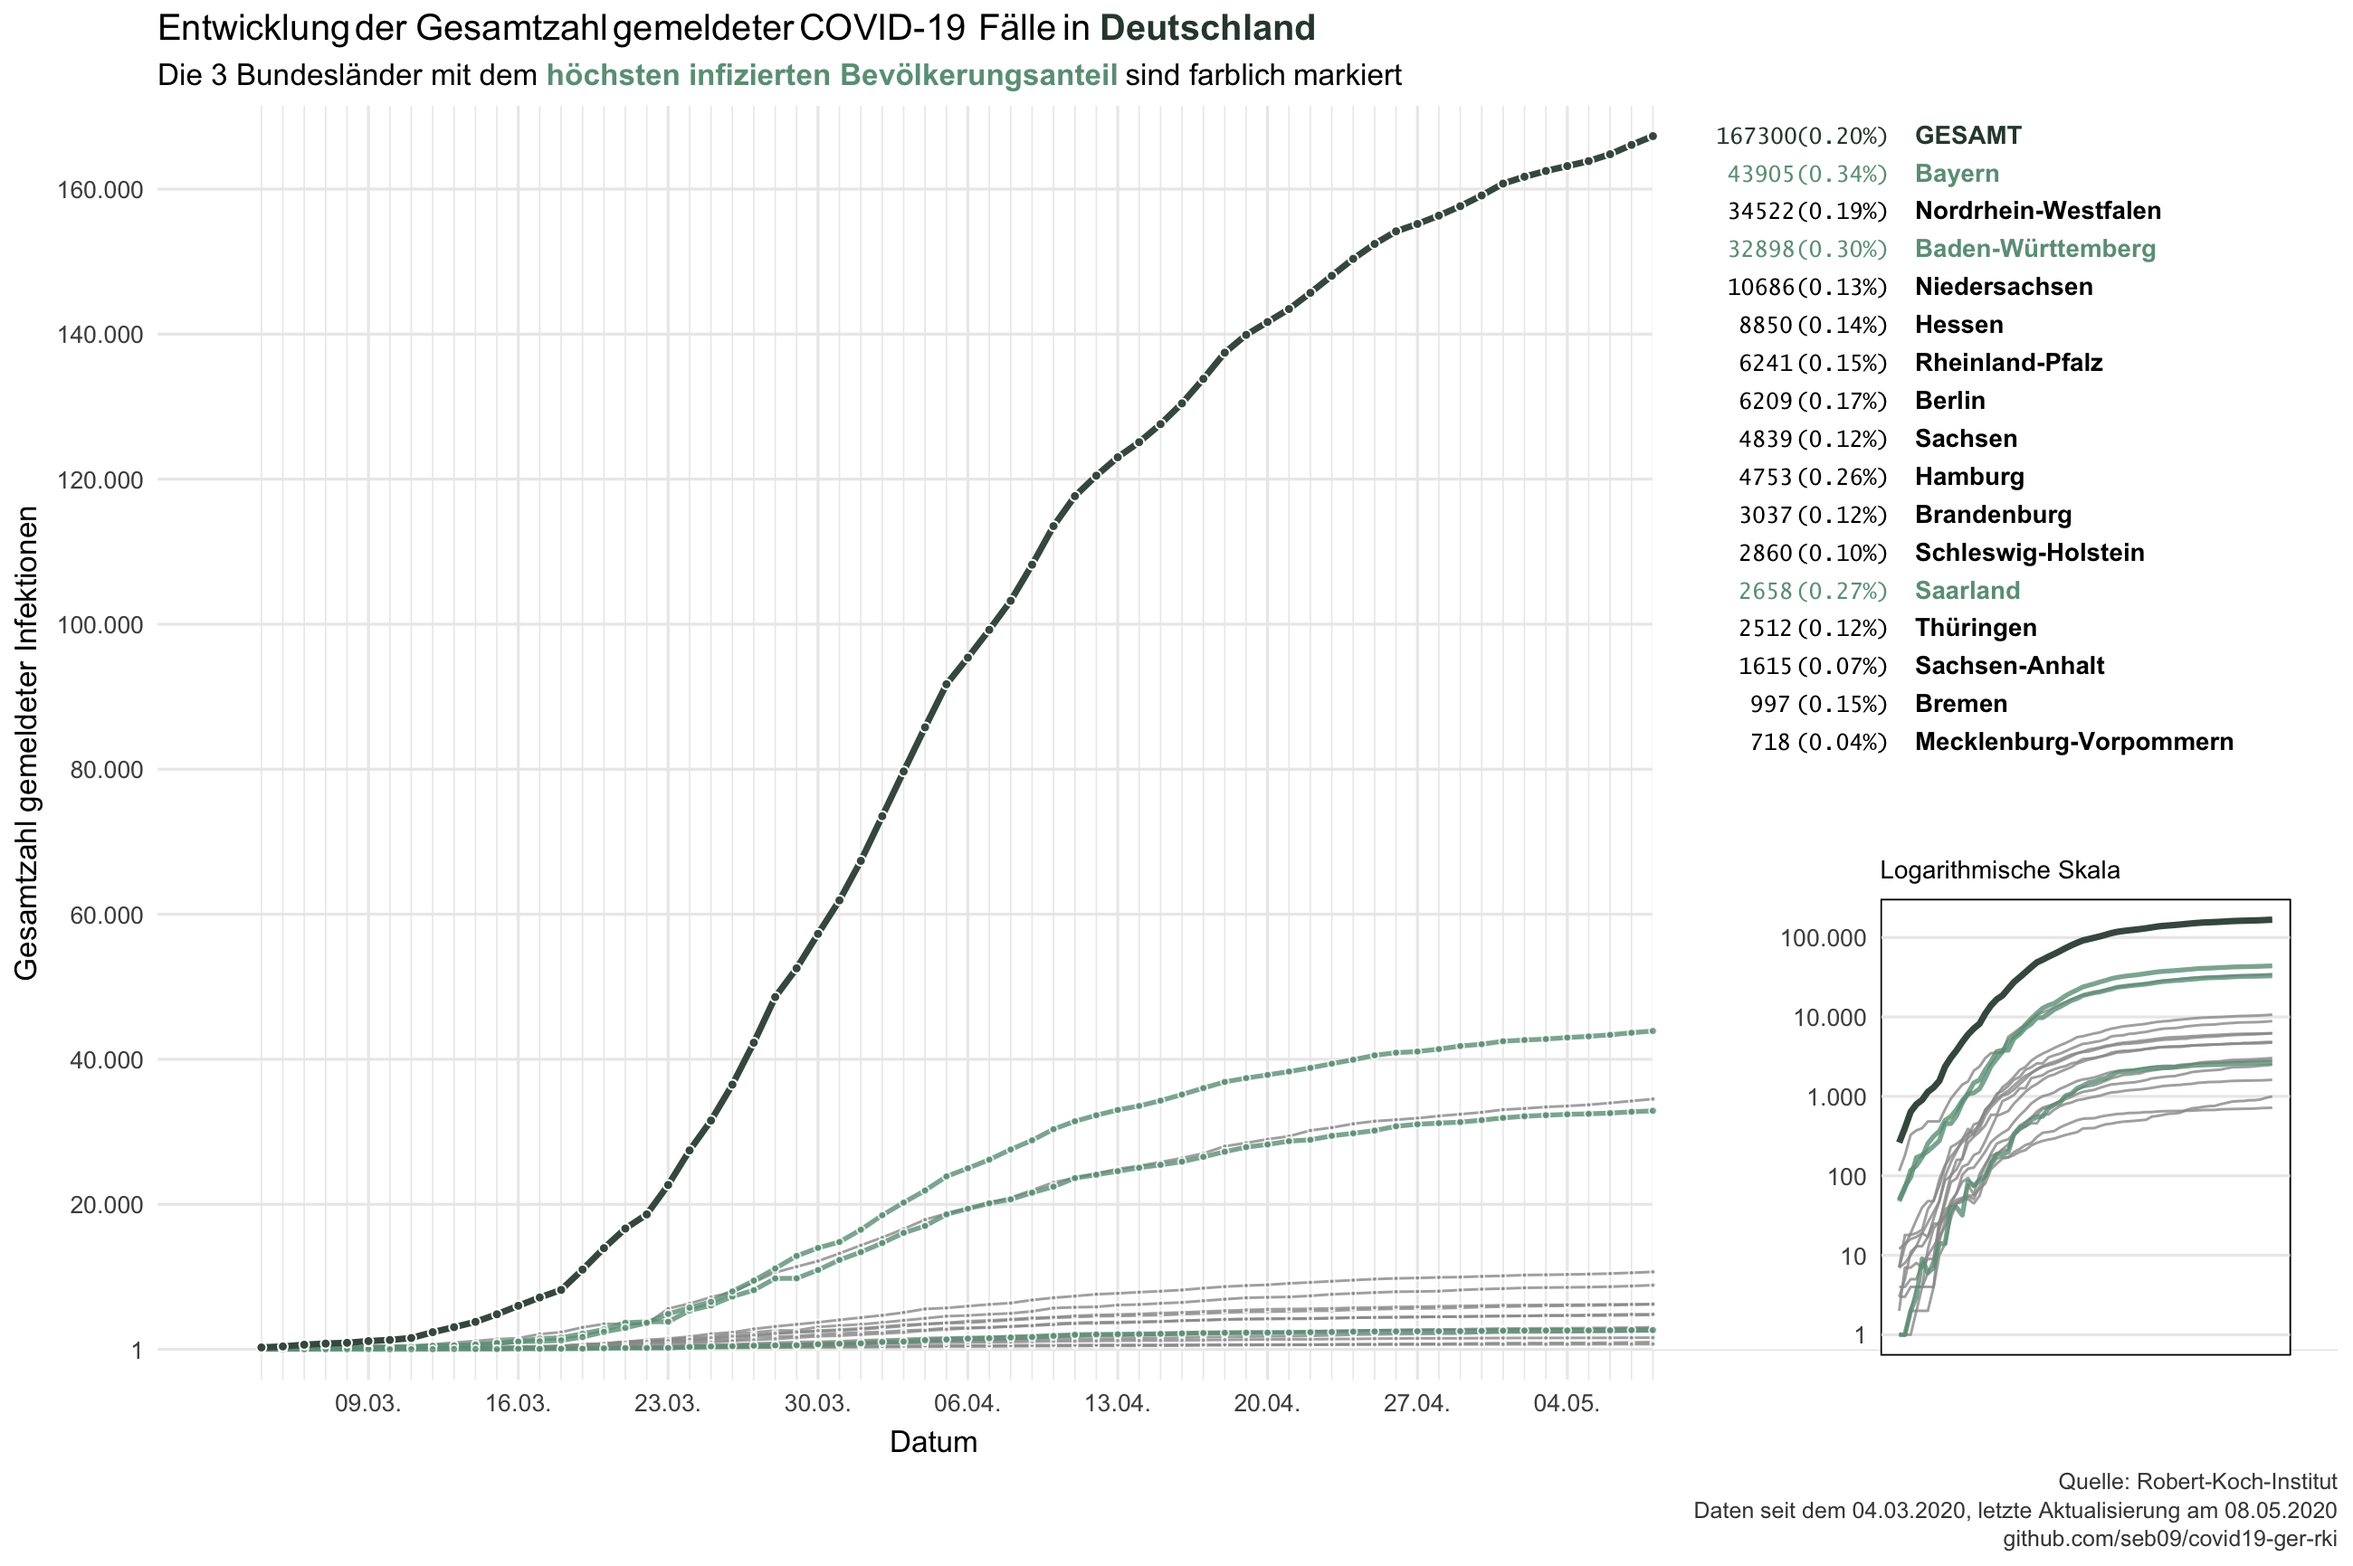
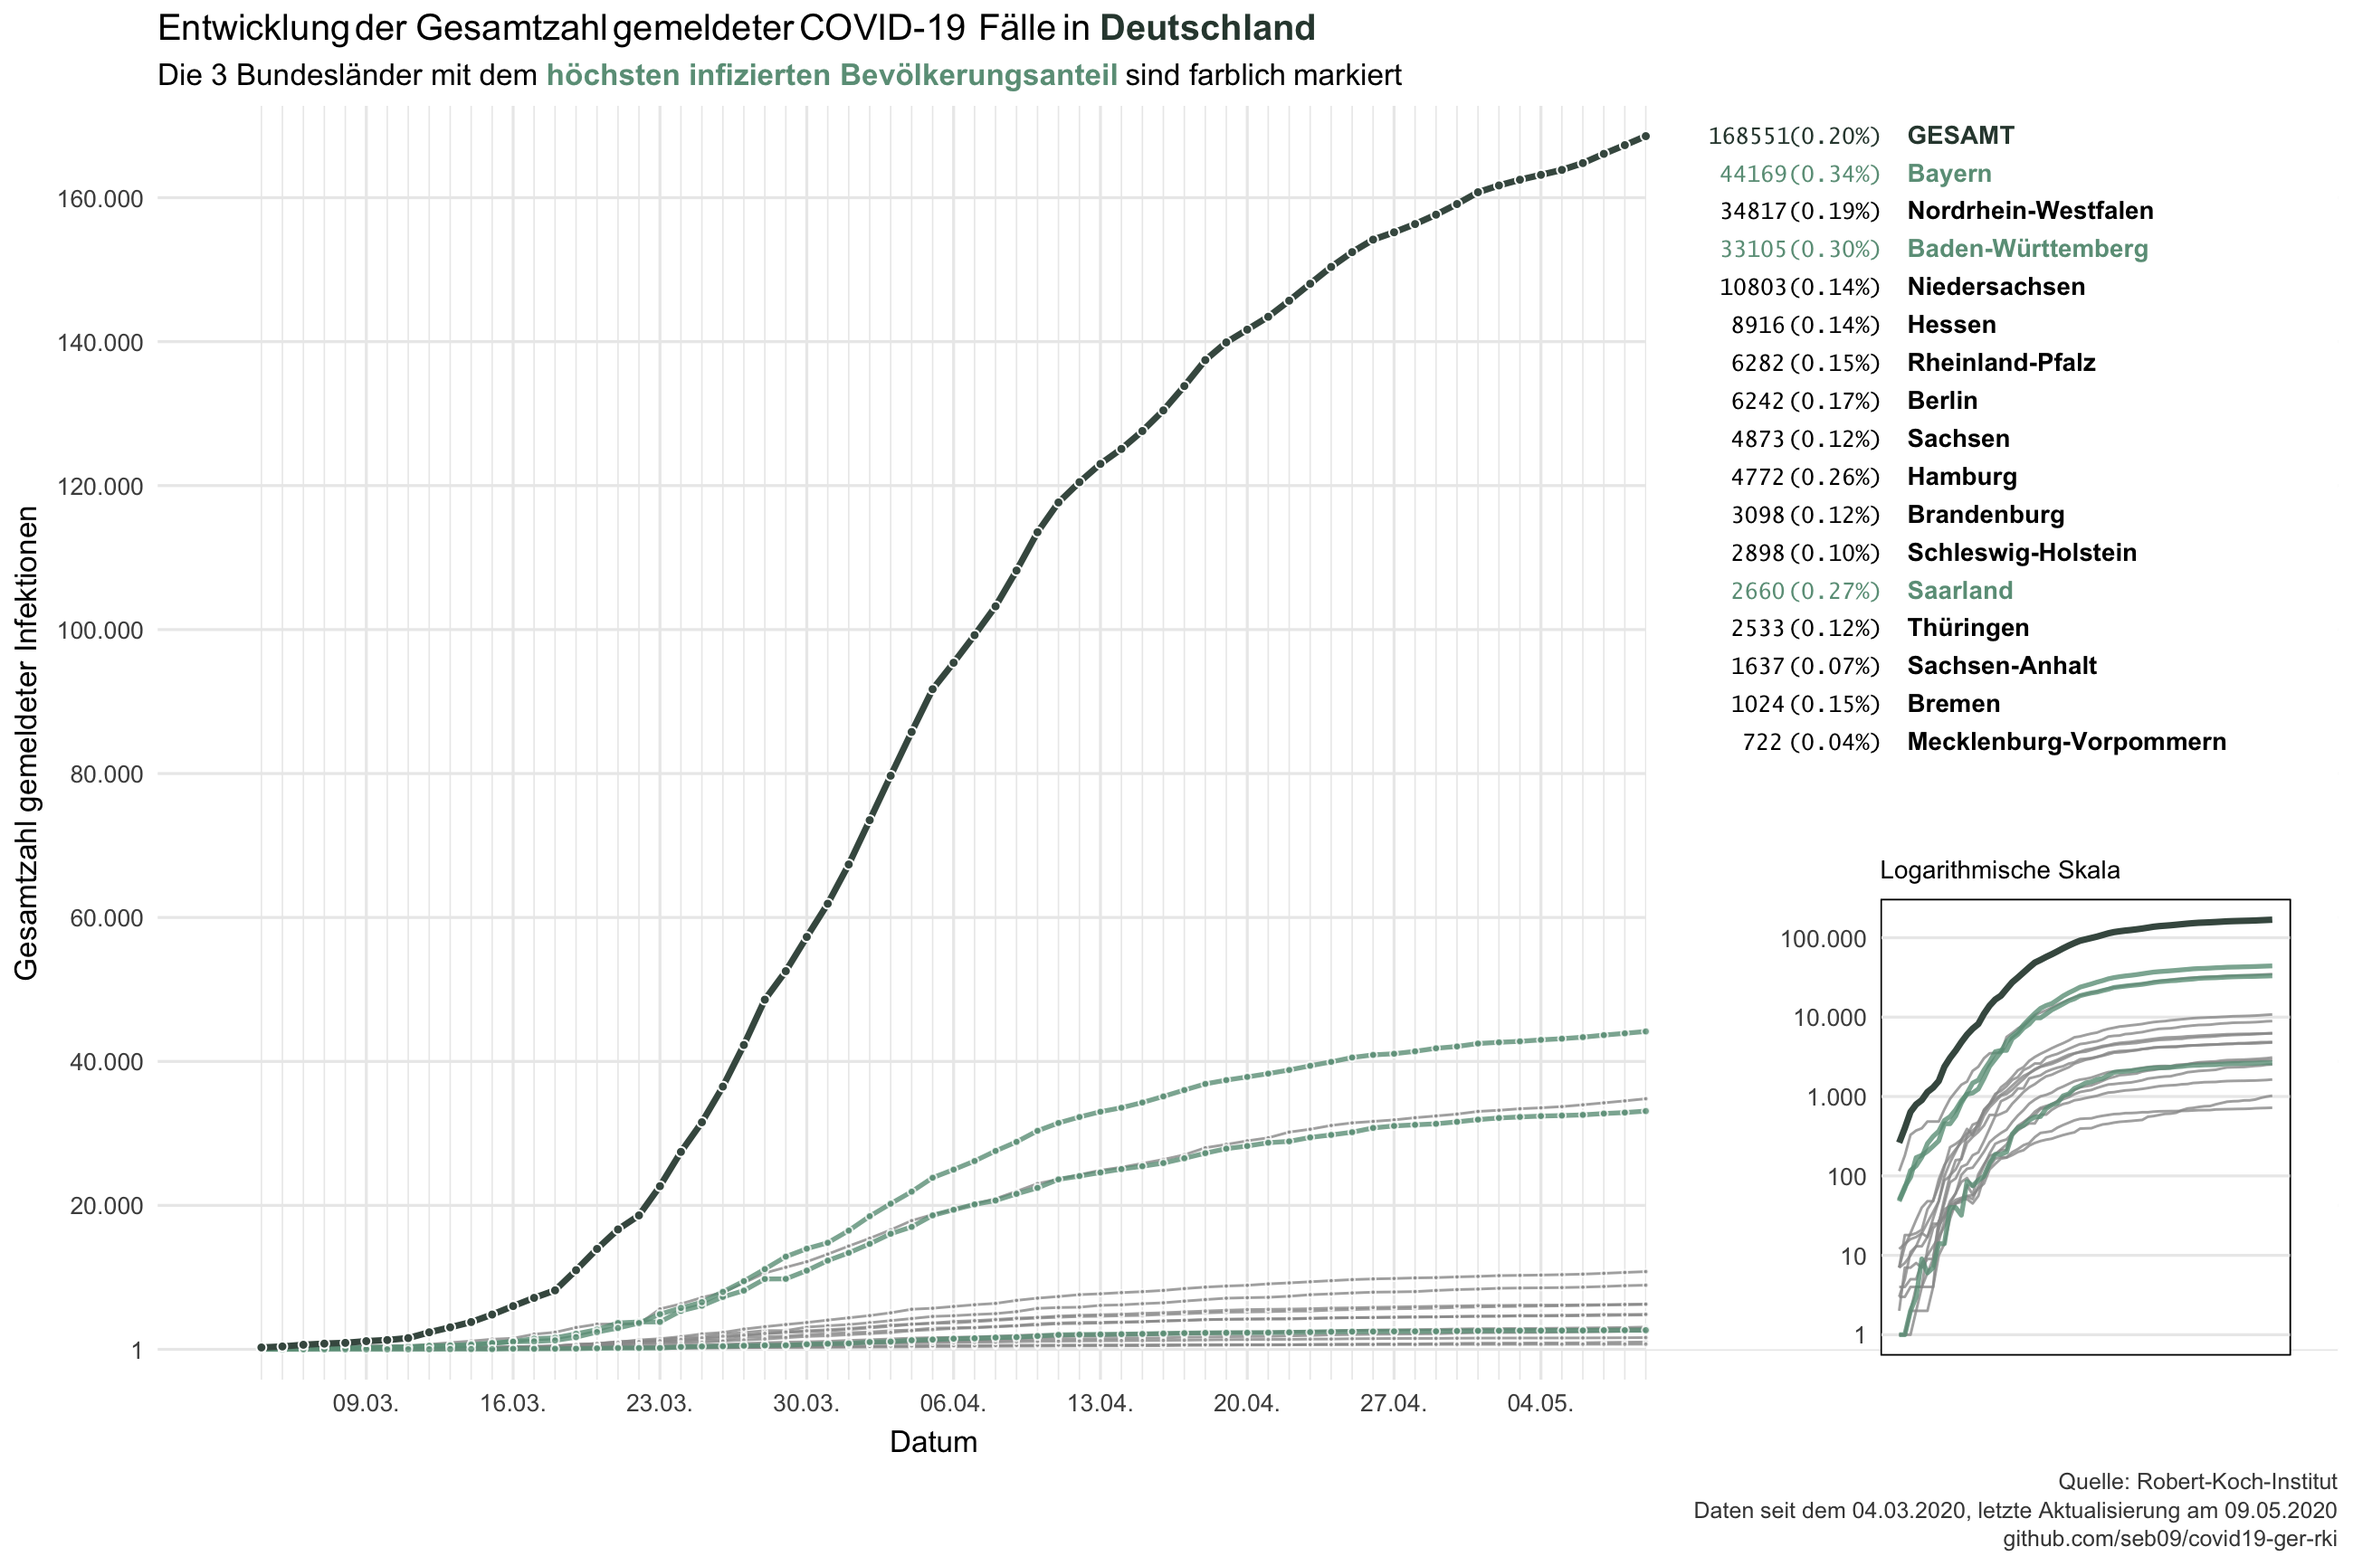
daily update 2020-05-09

diff --git a/README.md b/README.md
@@ -1,6 +1,6 @@
 Data from the Robert-Koch-Institut on COVID-19 in Germany
 ================
-Last update: 2020-05-08
+Last update: 2020-05-09
 
 This repository contains data on reported COVID-19 cases in Germany and
 its federal states that is published daily by the Robert-Koch-Institut
@@ -14,26 +14,26 @@ corona_rki %>%
   print(n = 16)
 ```
 
-    ## # A tibble: 1,050 x 6
+    ## # A tibble: 1,066 x 6
     ##    Datum      Bundesland      Fallzahl Todeszahl Fallzahl_neu Todeszahl_neu
     ##    <date>     <chr>              <dbl>     <dbl>        <dbl>         <dbl>
-    ##  1 2020-05-08 Baden-Württemb…    32898      1515          136            18
-    ##  2 2020-05-08 Bayern             43905      2114          247            64
-    ##  3 2020-05-08 Berlin              6209       163           60             1
-    ##  4 2020-05-08 Brandenburg         3037       131           38             2
-    ##  5 2020-05-08 Bremen               997        32           34             0
-    ##  6 2020-05-08 Hamburg             4753       201           49             7
-    ##  7 2020-05-08 Hessen              8850       403          114             7
-    ##  8 2020-05-08 Mecklenburg-Vo…      718        19            3             0
-    ##  9 2020-05-08 Niedersachsen      10686       493          122            15
-    ## 10 2020-05-08 Nordrhein-West…    34522      1397          273            25
-    ## 11 2020-05-08 Rheinland-Pfalz     6241       192           28             3
-    ## 12 2020-05-08 Saarland            2658       140            3            -3
-    ## 13 2020-05-08 Sachsen             4839       184            3             3
-    ## 14 2020-05-08 Sachsen-Anhalt      1615        48           13             0
-    ## 15 2020-05-08 Schleswig-Hols…     2860       122           26             2
-    ## 16 2020-05-08 Thüringen           2512       112           60             3
-    ## # … with 1,034 more rows
+    ##  1 2020-05-09 Baden-Württemb…    33105      1534          207            19
+    ##  2 2020-05-09 Bayern             44169      2147          264            33
+    ##  3 2020-05-09 Berlin              6242       164           33             1
+    ##  4 2020-05-09 Brandenburg         3098       133           61             2
+    ##  5 2020-05-09 Bremen              1024        32           27             0
+    ##  6 2020-05-09 Hamburg             4772       204           19             3
+    ##  7 2020-05-09 Hessen              8916       408           66             5
+    ##  8 2020-05-09 Mecklenburg-Vo…      722        19            4             0
+    ##  9 2020-05-09 Niedersachsen      10803       496          117             3
+    ## 10 2020-05-09 Nordrhein-West…    34817      1424          295            27
+    ## 11 2020-05-09 Rheinland-Pfalz     6282       195           41             3
+    ## 12 2020-05-09 Saarland            2660       142            2             2
+    ## 13 2020-05-09 Sachsen             4873       186           34             2
+    ## 14 2020-05-09 Sachsen-Anhalt      1637        48           22             0
+    ## 15 2020-05-09 Schleswig-Hols…     2898       122           38             0
+    ## 16 2020-05-09 Thüringen           2533       115           21             3
+    ## # … with 1,050 more rows
 
 Data is downloaded each day at 11am from the [website of the
 RKI](https://www.rki.de/DE/Content/InfAZ/N/Neuartiges_Coronavirus/Fallzahlen.html)
